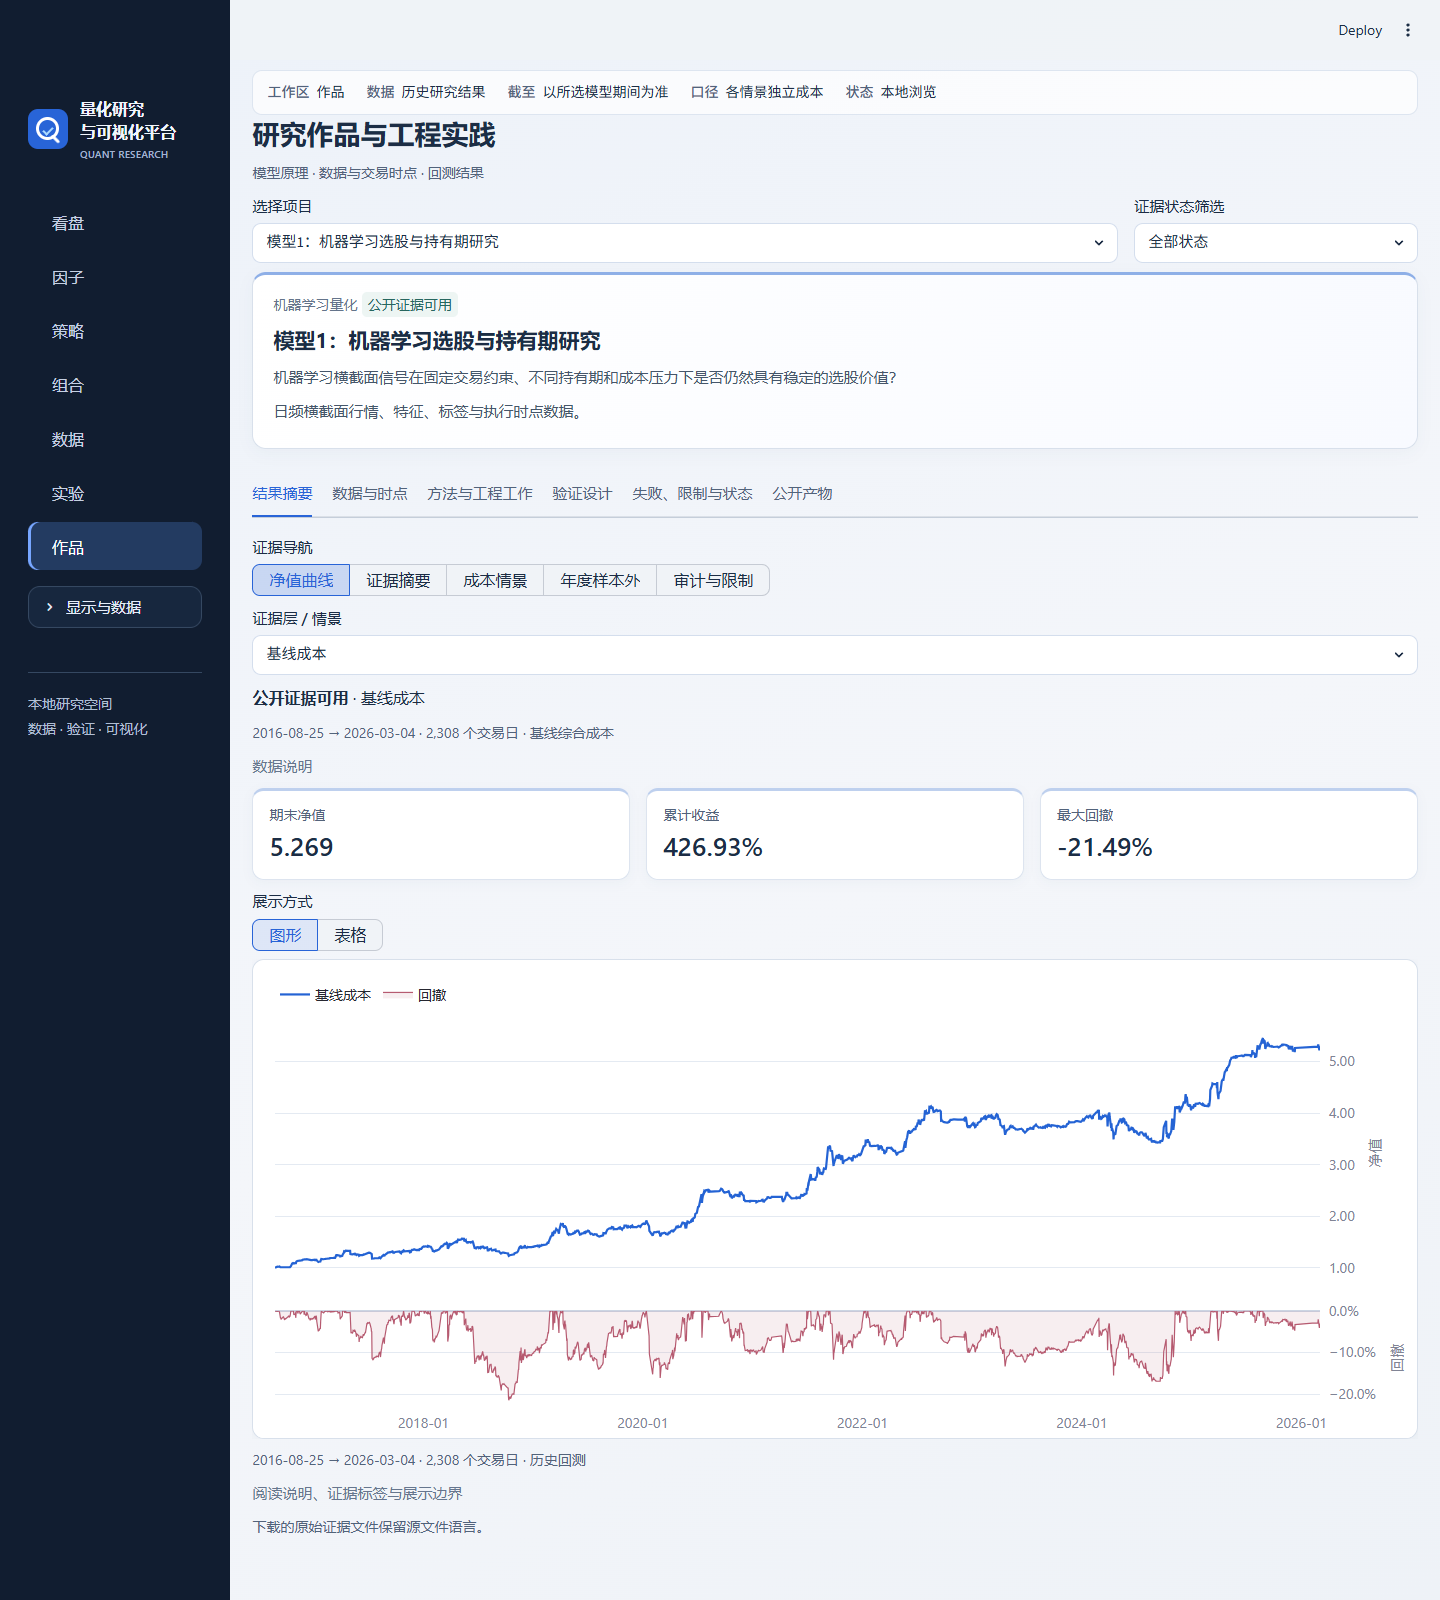
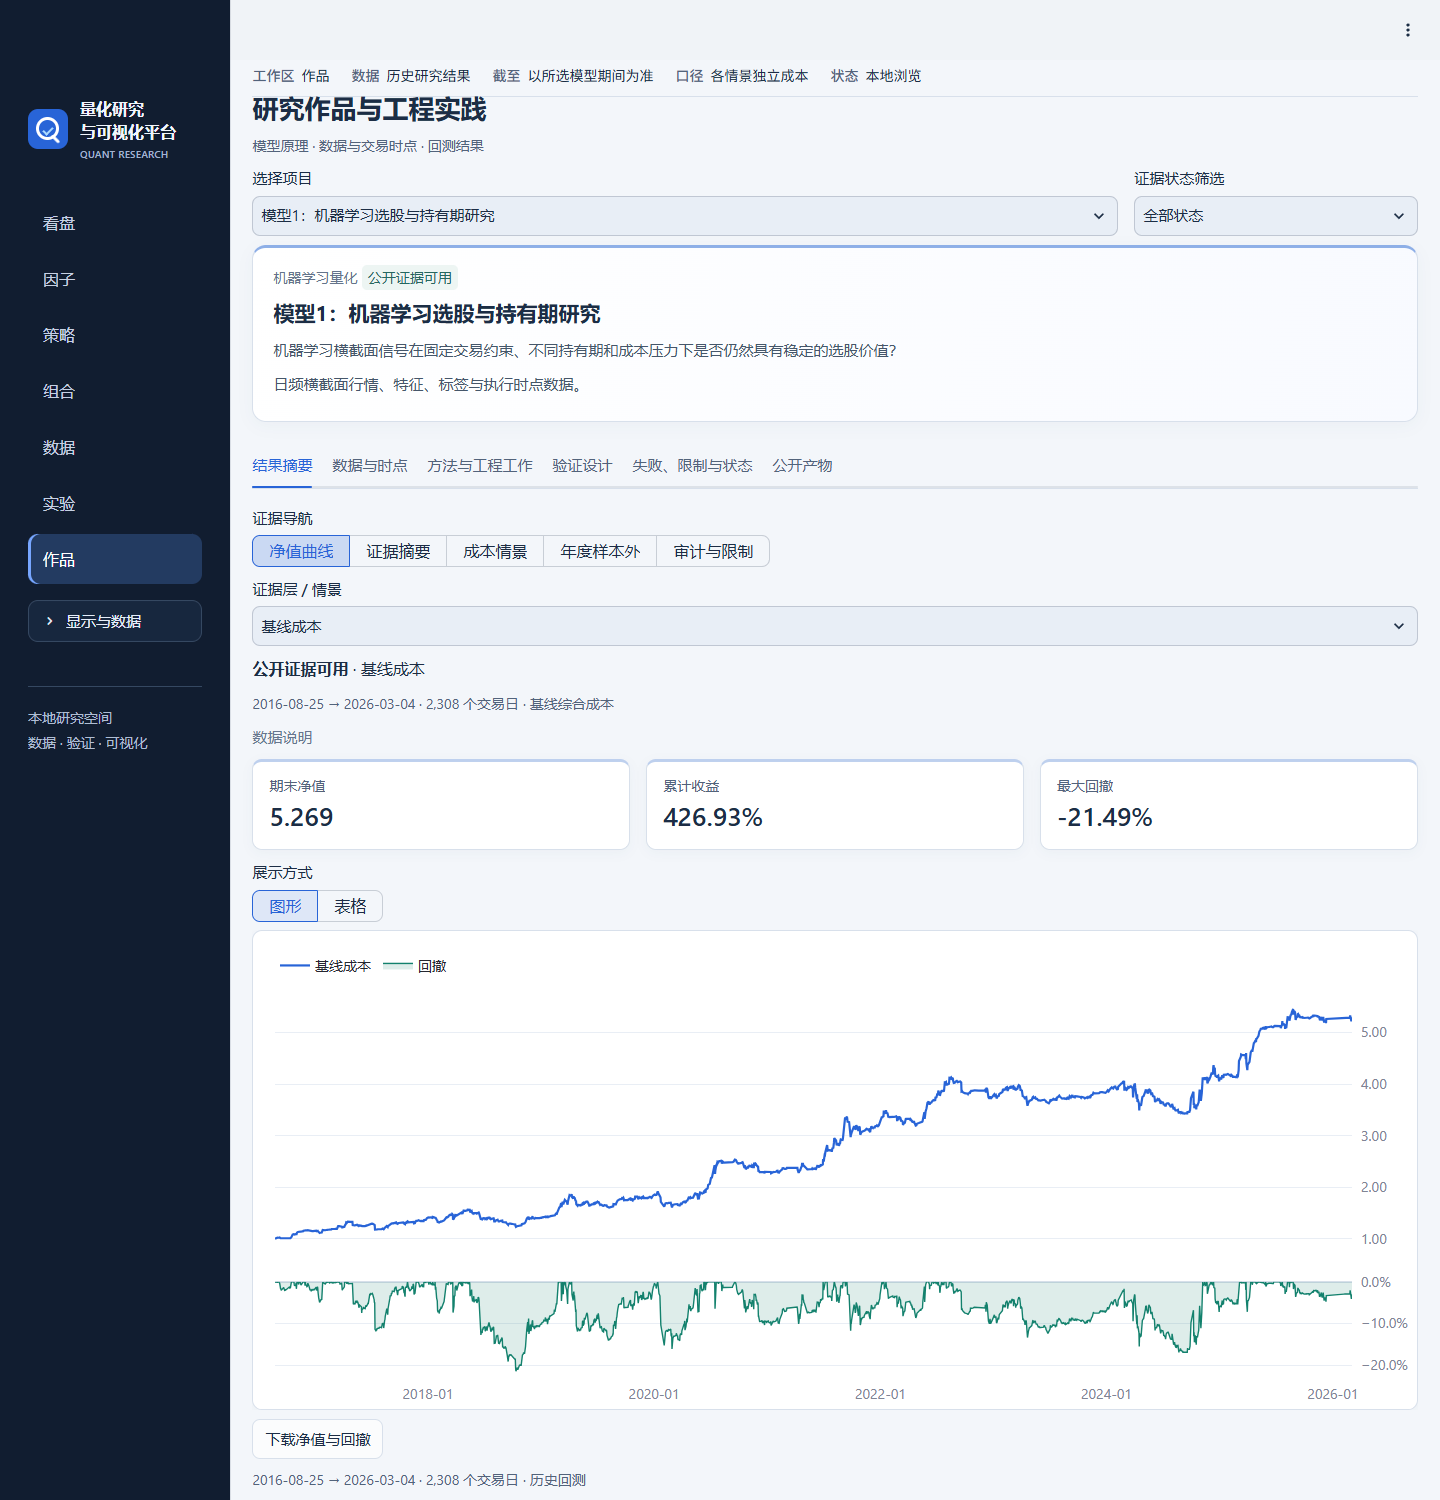
Update repository landing page with current UI and quick start

diff --git a/README.md b/README.md
@@ -1,63 +1,71 @@
 # 量化研究与可视化平台
 
-用图表完成从行情观察、因子分析到策略回测和组合研究的工作流。七个工作区共用一套数据与研究记录，参数、结果和图形可以连起来查看。
+面向个人的本地量化工作台，从日线行情出发，做因子诊断、策略回测和组合分析。研究结果可以保存、对比和复算。
 
-Python · Streamlit · Plotly · Lightweight Charts
+[快速开始](#快速开始) · [新版使用指南](https://github.com/Old-Doggy/quant-research-platform/blob/codex/platform-v2-m2/docs/usage.md) · [数据获取](https://github.com/Old-Doggy/quant-research-platform/blob/codex/platform-v2-m2/docs/data.md) · [技术文档](#技术文档)
 
-![行情与研究](docs/images/watch.png)
+![新版看盘页，合成样例的报价、K 线、成交量和 MACD](docs/images/watch.png)
 
-## 能做什么
+*新版看盘工作区，使用内置合成行情。本文的截图和启动命令均对应 `codex/platform-v2-m2`。*
 
-| 工作区 | 用途 |
-| --- | --- |
-| 看盘 | 日、周、月 K 线，技术指标、成交量与研究事件联动 |
-| 因子 | 因子分布、横截面 Rank IC、分组收益与稳定性分析 |
-| 策略 | 配置信号、比较参数、查看成本与样本外验证 |
-| 组合 | 组合权重、现金、调仓、成交记录与收益贡献 |
-| 数据 | 导入文件、检查质量、登记版本，再进入研究 |
-| 实验 | 查看研究记录、比较运行结果、下载归档 |
-| 作品 | 按模型浏览研究方法、验证设计与历史净值 |
+## 快速开始
 
-## 运行
+需要 Python **3.12 或 3.13**。内置样例无需行情账号。
 
-需要 Python 3.12 或 3.13。首次使用无需行情接口或密钥，内置合成数据可运行完整研究流程。
-
-```bash
-git clone https://github.com/Old-Doggy/quant-research-platform.git
+```sh
+git clone --branch codex/platform-v2-m2 https://github.com/Old-Doggy/quant-research-platform.git
 cd quant-research-platform
 python -m venv .venv
 ```
 
-Windows 激活环境：`.venv\Scripts\activate`；macOS / Linux：`source .venv/bin/activate`。
+PowerShell 使用 `.\.venv\Scripts\python.exe`，macOS / Linux 使用 `./.venv/bin/python`，替换下面命令中的 `python`。
 
-```bash
+```sh
+python -m pip install --upgrade "pip>=26.2"
 python -m pip install -r requirements.txt
 python -m streamlit run streamlit_app.py --server.address 127.0.0.1
 ```
 
-打开终端给出的本地地址，默认是 `http://127.0.0.1:8501`。从“数据”导入自己的 CSV、Excel 或 Parquet，也可在“看盘”切换行情来源。
+打开 [127.0.0.1:8501](http://127.0.0.1:8501/)。进入 **策略 → 运行研究**，用默认模板查看净值、回撤和模拟成交。完成后可在 **实验** 中查看研究记录。
 
-![历史模型净值与回撤](docs/images/models.png)
+## 界面预览
+
+| 工作区 | 可以查看或操作 |
+| --- | --- |
+| 看盘 | 日、周、月 K 线，技术指标、成交量和研究事件 |
+| 因子 | Rank IC、截面明细与分组收益 |
+| 策略 | 策略与基准净值、回撤、买卖事件和换手成本 |
+| 组合 | 权重、现金、调仓、持仓和收益分解 |
+| 数据 | 行情更新、快照覆盖、财务观察及文件导入 |
+| 实验 | 已保存结果、对比、归档和复算 |
+| 作品 | 七个历史研究案例与 11 条授权公开的汇总净值 |
+
+<details>
+<summary>策略回测与历史作品截图</summary>
+
+**策略研究** · 合成行情，净值与回撤共用日期，各用独立纵轴。
+
+![新版策略结果，含净值、回撤和模拟成交摘要](docs/images/strategy.png)
+
+**历史作品** · 已公开的回测汇总，展示原区间及成本情景。
+
+![新版作品页的模型 1 与历史净值和回撤](docs/images/models.png)
+
+</details>
 
 ## 数据
 
-仓库附带合成样例及作者授权公开的历史研究汇总，不附带真实行情库。真实行情可从数据服务商获取后导入，项目提供一个 Tushare 日线下载脚本。
+仓库附带合成样例和授权公开的研究汇总。自己的行情可通过 CSV、Excel 或 Parquet 导入，输入文件和实验归档存放在本机。新版提供有限范围的沪深 A 股日线更新，免费快照用于看盘和筛选。真实回测还需核对公司行为、交易状态及历史数据可用时点。[数据格式、来源与示例](https://github.com/Old-Doggy/quant-research-platform/blob/codex/platform-v2-m2/docs/data.md)
 
-[数据获取与字段说明](docs/data.md) · [使用指南](docs/usage.md) · [研究计算口径](docs/methodology.md)
+## 技术文档
 
-“作品”中的 11 条净值曲线来自既有历史回测，保留原样本区间与成本情景。模型 2、6 的未通过状态也保留在结果中。这些历史汇总不等于当前行情重跑或实盘收益。
+| 主题 | 新版文档 |
+| --- | --- |
+| 操作 | [使用指南](https://github.com/Old-Doggy/quant-research-platform/blob/codex/platform-v2-m2/docs/usage.md) · [数据获取](https://github.com/Old-Doggy/quant-research-platform/blob/codex/platform-v2-m2/docs/data.md) |
+| 实现 | [项目架构](https://github.com/Old-Doggy/quant-research-platform/blob/codex/platform-v2-m2/docs/architecture.md) · [计算口径](https://github.com/Old-Doggy/quant-research-platform/blob/codex/platform-v2-m2/docs/methodology.md) |
+| 维护 | [更新与运行](https://github.com/Old-Doggy/quant-research-platform/blob/codex/platform-v2-m2/docs/operations-v2.md) · [备份恢复](https://github.com/Old-Doggy/quant-research-platform/blob/codex/platform-v2-m2/docs/recovery-runbook.md) |
+| 版本 | [交付状态](https://github.com/Old-Doggy/quant-research-platform/blob/codex/platform-v2-m2/docs/status-v2.md) · [发布前审查](https://github.com/Old-Doggy/quant-research-platform/blob/codex/platform-v2-m2/docs/release-engineering-audit.md) |
 
-## 开发
+默认分支保留已发布的源码，新版应用位于 [codex/platform-v2-m2](https://github.com/Old-Doggy/quant-research-platform/tree/codex/platform-v2-m2)。
 
-```bash
-python -m pip install -r requirements-dev.txt
-python -m pytest
-```
-
-[项目结构与技术说明](docs/architecture.md) · [测试与版本记录](docs/verification.md) · [第三方资源](docs/third-party.md)
-
-应用默认在本机运行，文件导入和本地目录读取面向单人研究使用。互联网部署需要另外配置访问控制与数据隔离。
-
-## 许可证
-
-代码与作者公开的研究汇总采用 [MIT](LICENSE) 许可证。Lightweight Charts 保留 Apache-2.0 许可证和 TradingView 署名。外部行情数据的使用与再分发遵循各数据提供方的条款。
+代码和授权研究汇总采用 [MIT](LICENSE) 许可证。[第三方资源](docs/third-party.md)
